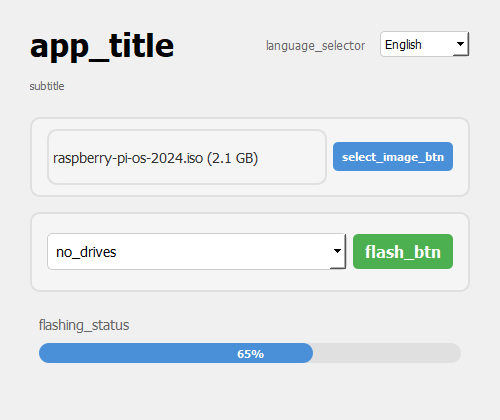
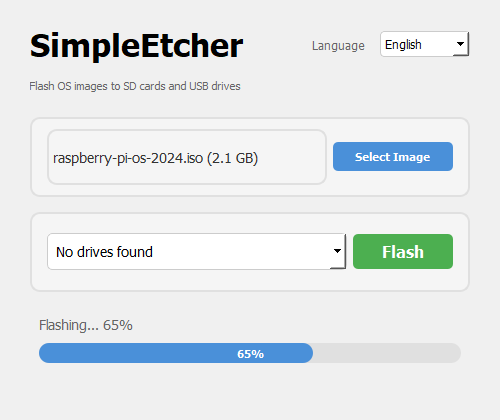
Update all screenshots with proper translations and language selector visible

diff --git a/screenshot.py b/screenshot.py
@@ -4,9 +4,16 @@
 import sys
 import os
 import time
+
+# Ensure we're in the script's directory before importing
+script_dir = os.path.dirname(os.path.abspath(__file__))
+os.chdir(script_dir)
+
 from PyQt5.QtWidgets import QApplication
-from PyQt5.QtCore import QTimer, Qt
 from etcher import EtcherWindow, load_translations, t
+
+# Load translations before creating window
+load_translations("en")
 
 def capture_screenshots():
     app = QApplication(sys.argv)
